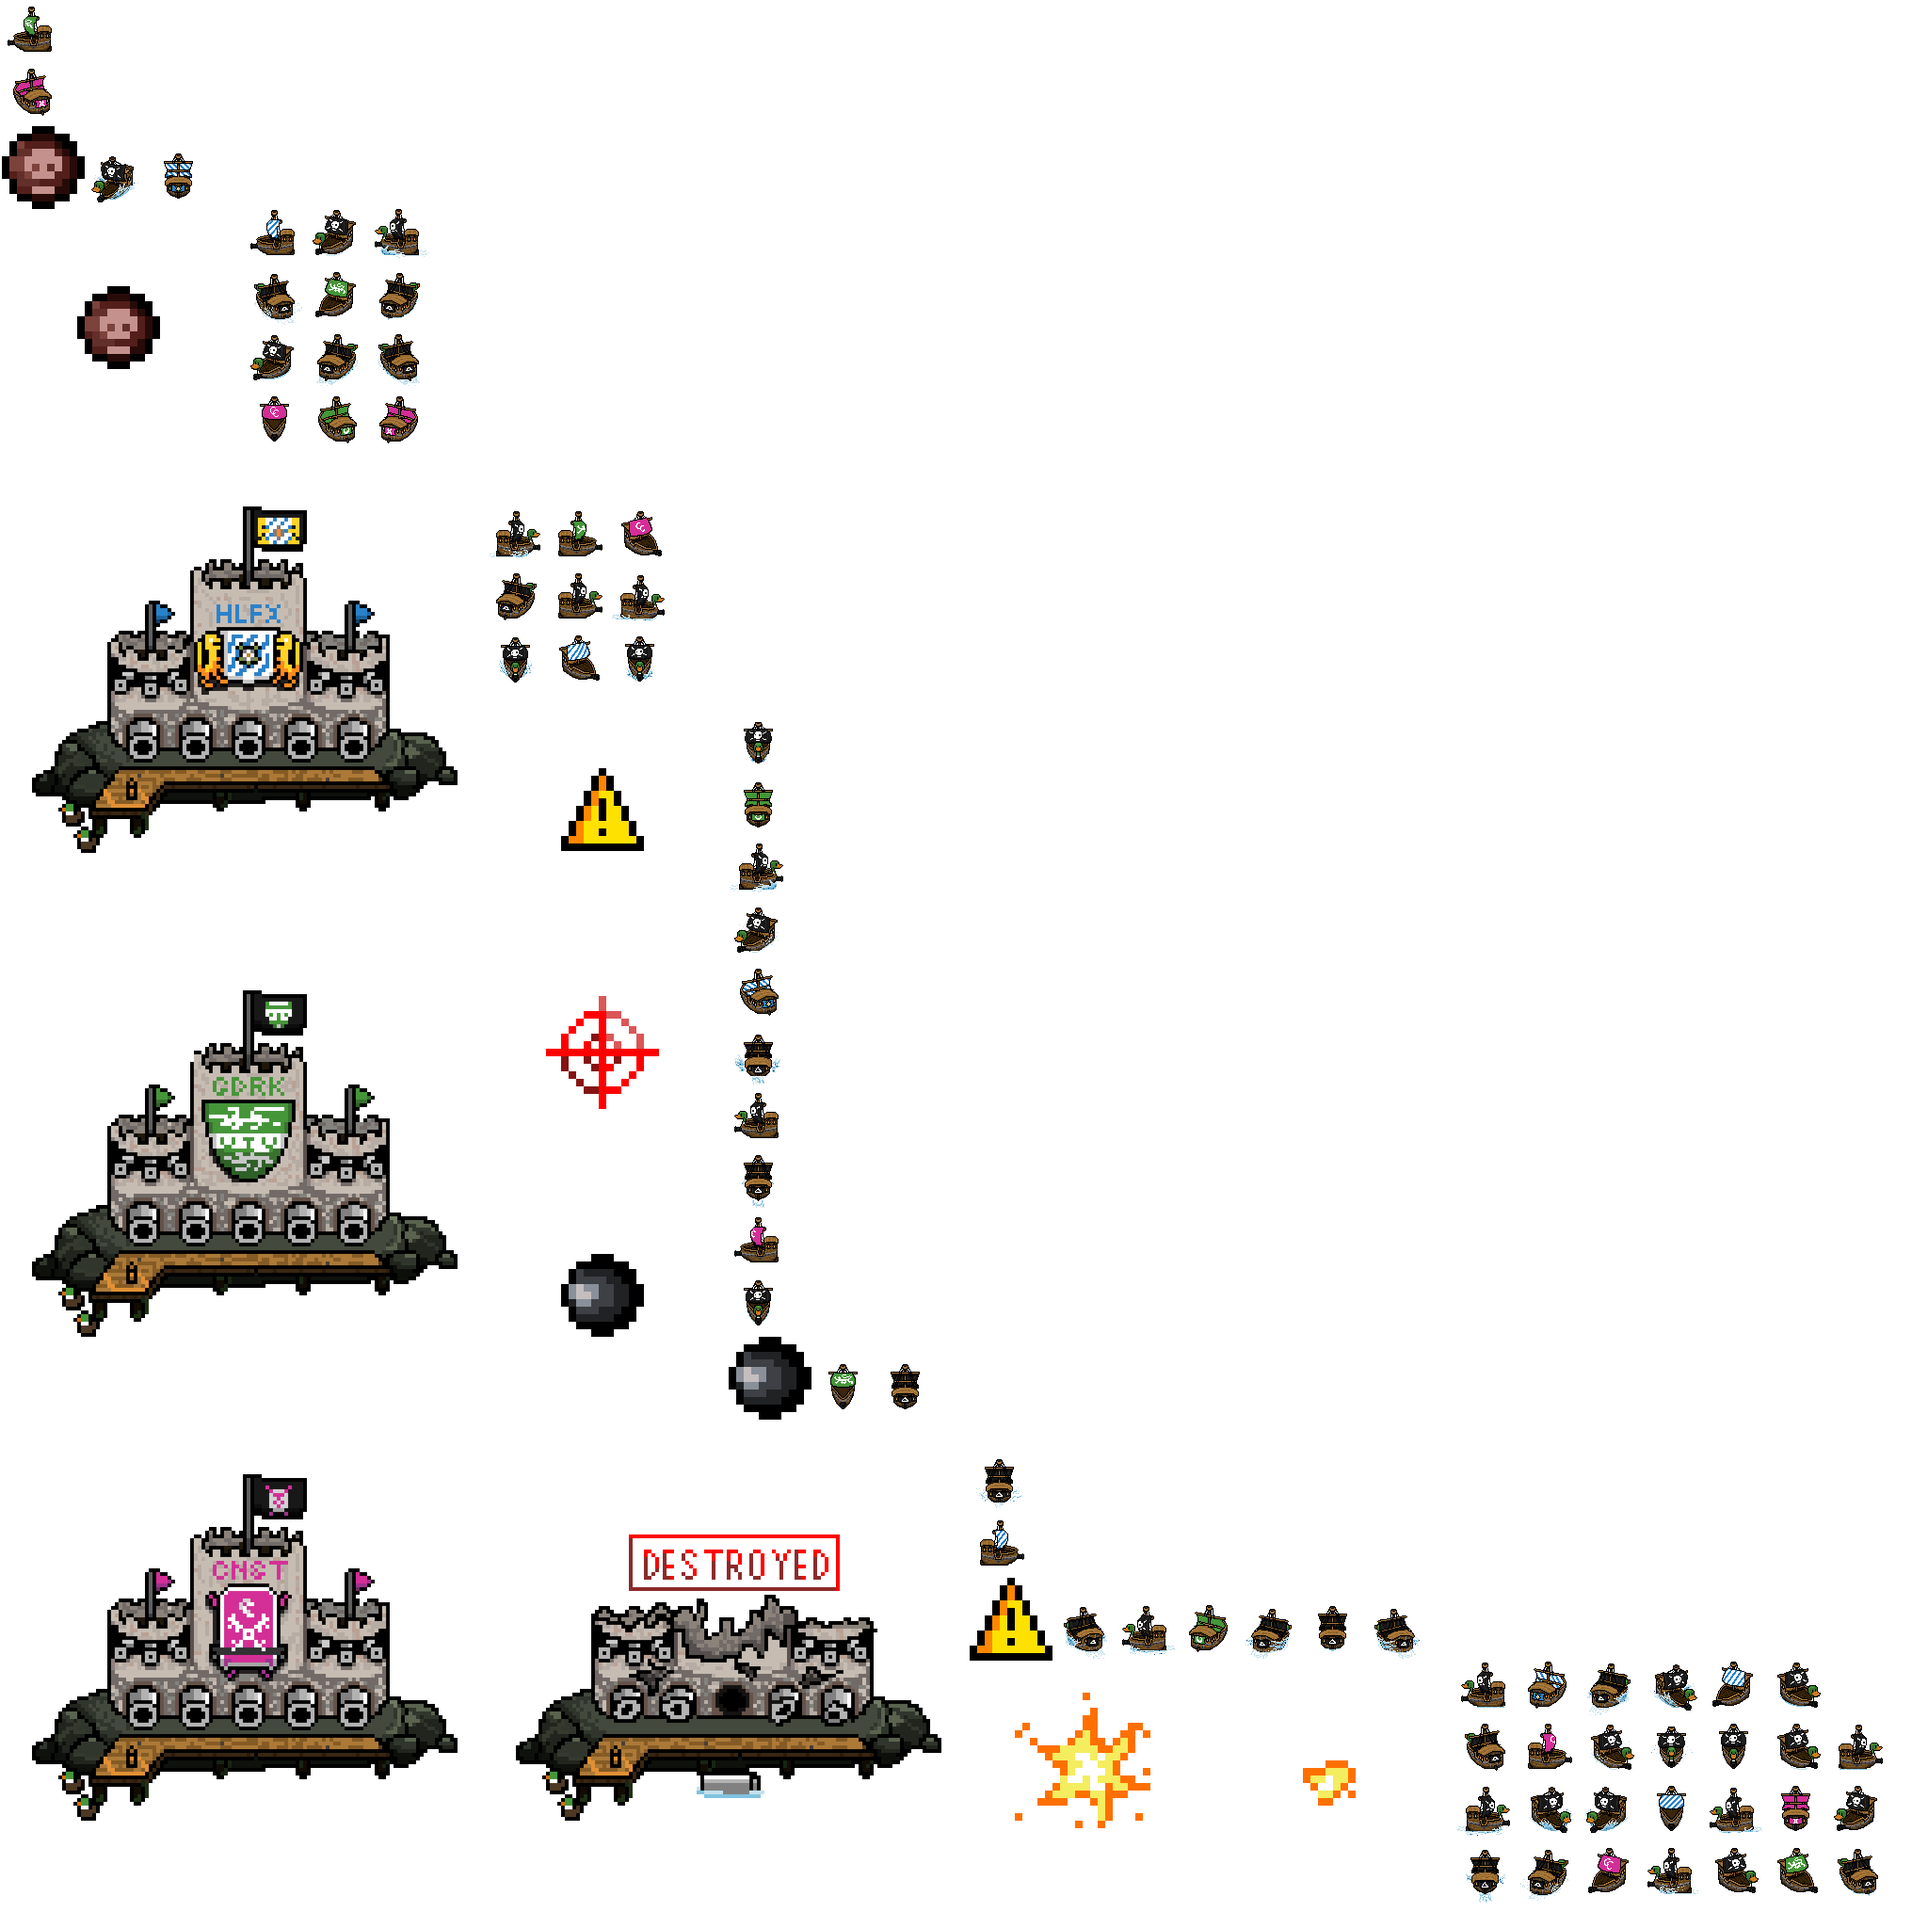
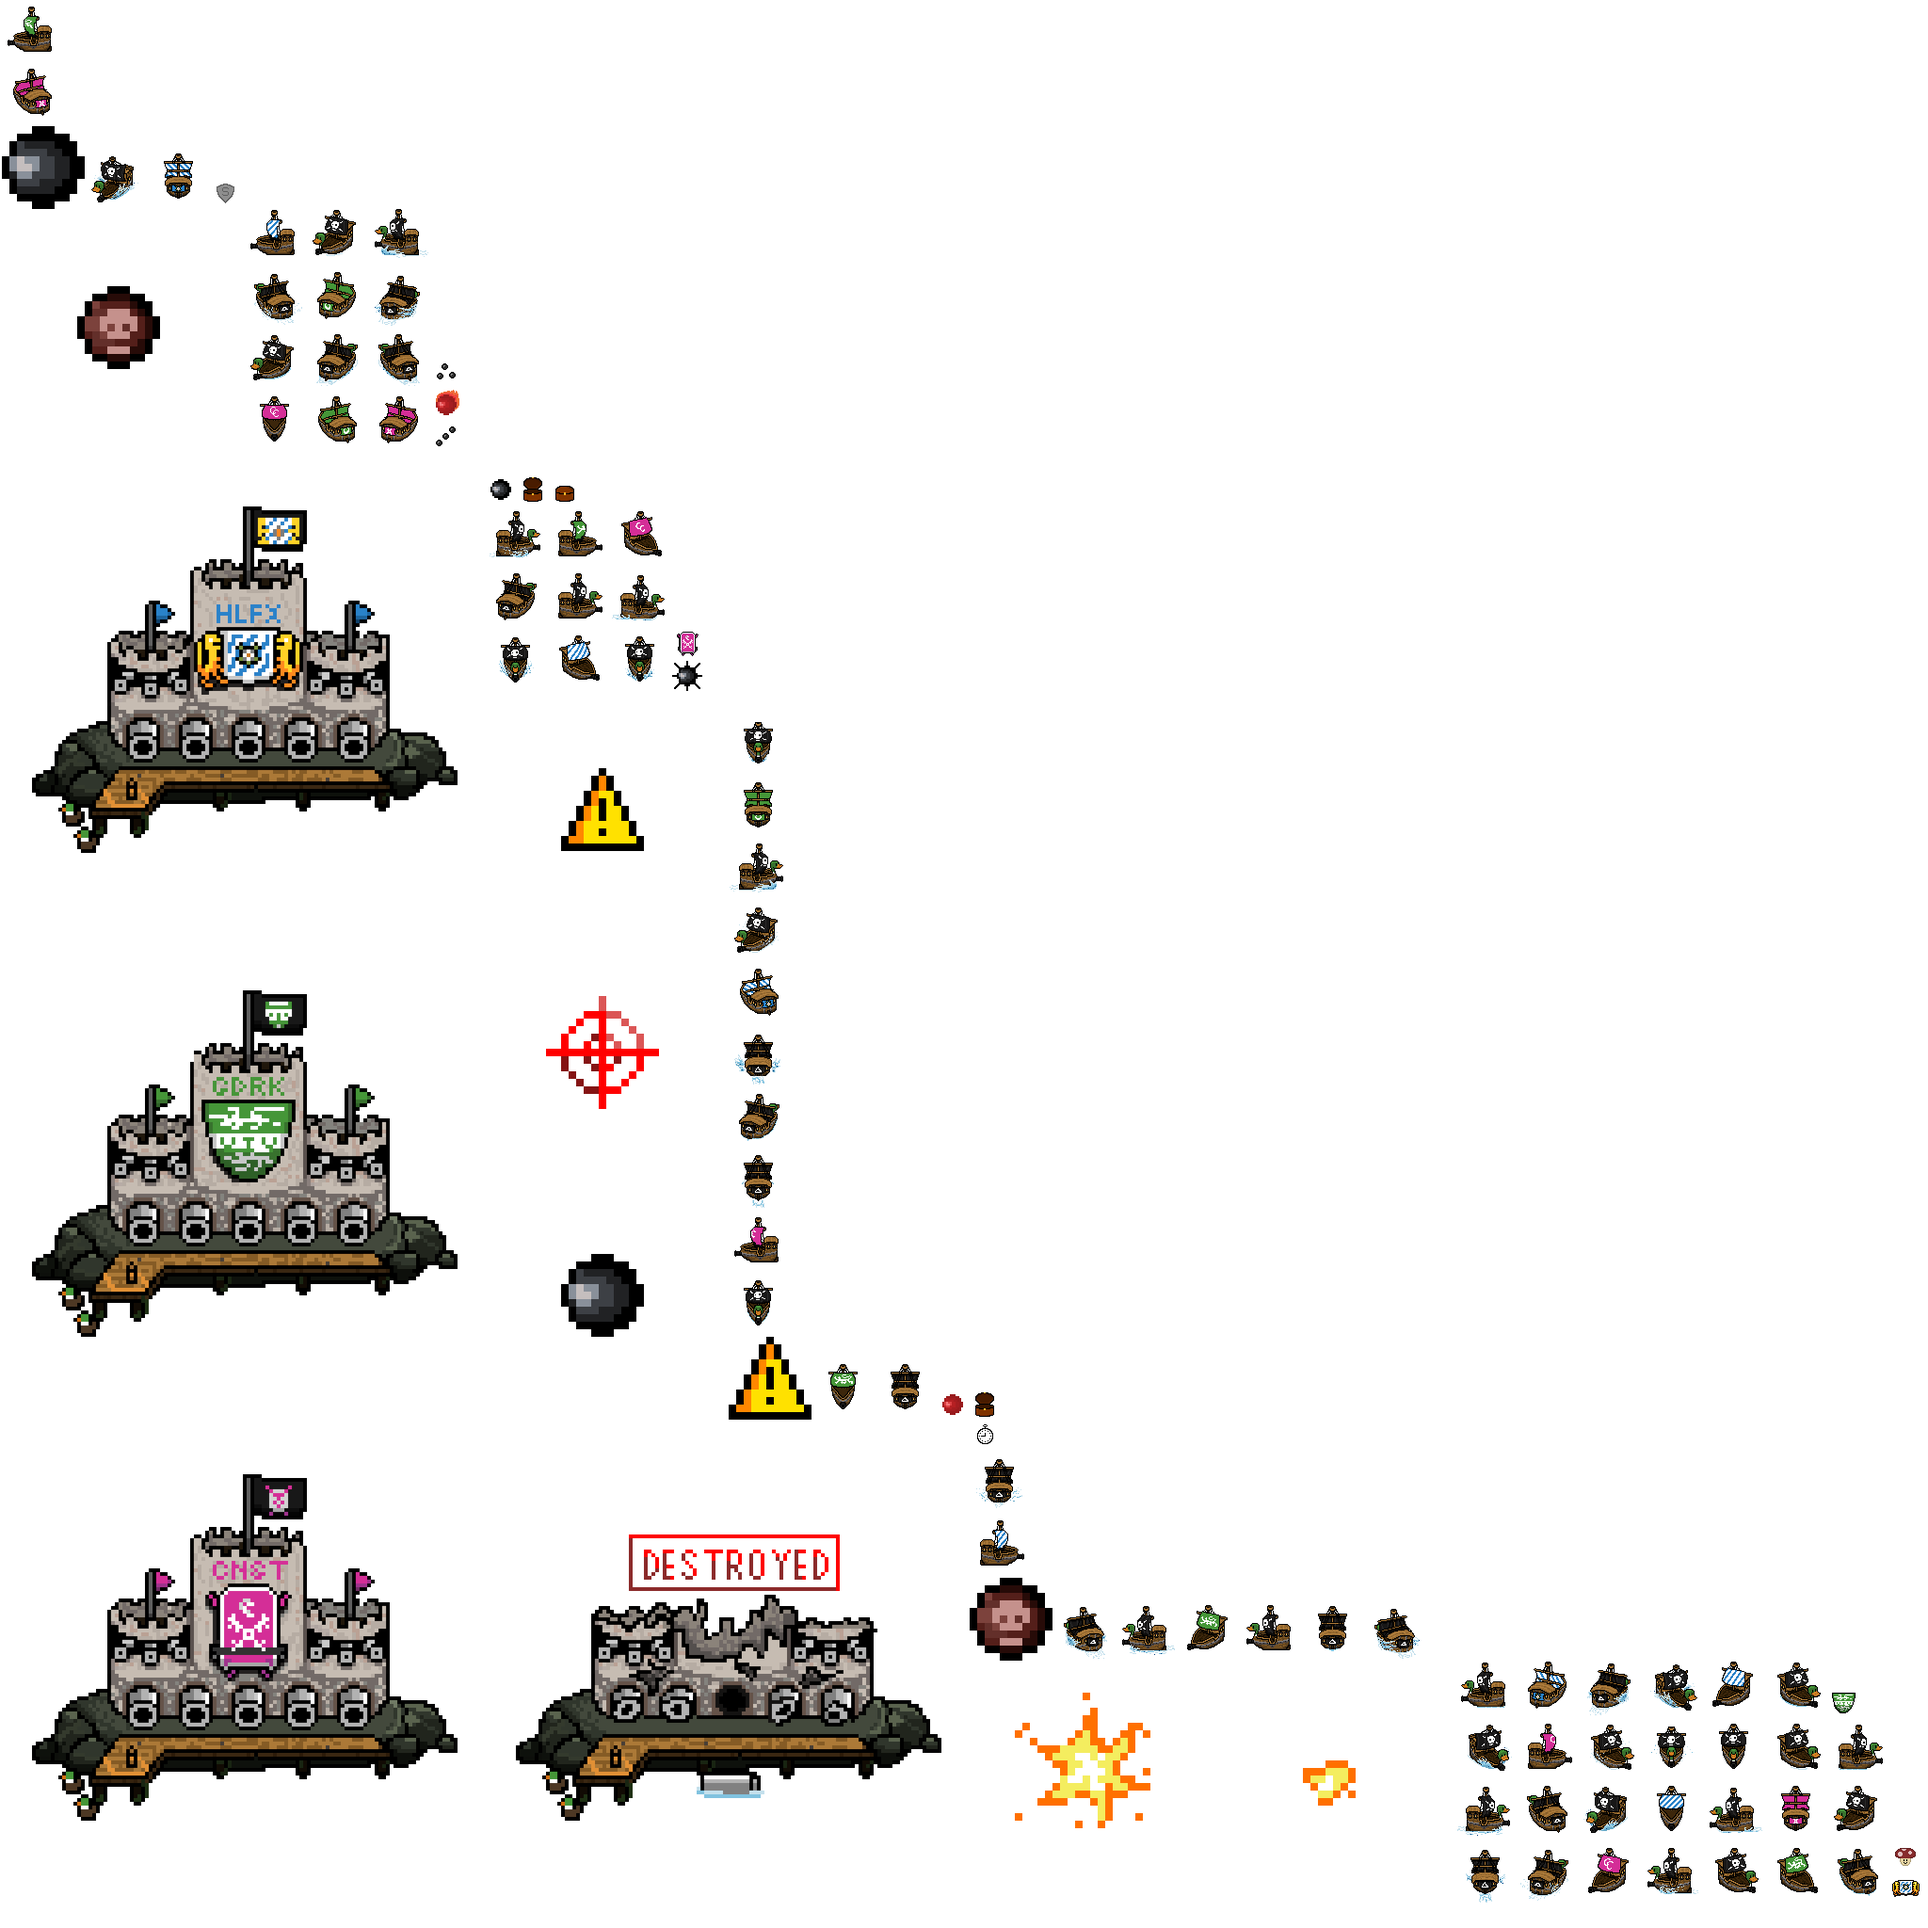
Update game to use new textures for indicators and chests

diff --git a/deltaducks/tests/src/de/tomgrill/gdxtesting/QuestTests.java b/deltaducks/tests/src/de/tomgrill/gdxtesting/QuestTests.java
@@ -1,0 +1,53 @@
+package de.tomgrill.gdxtesting;
+
+import com.badlogic.gdx.backends.headless.HeadlessApplication;
+import com.badlogic.gdx.backends.headless.HeadlessApplicationConfiguration;
+import com.badlogic.gdx.graphics.g2d.TextureAtlas;
+import com.badlogic.gdx.math.Vector2;
+import com.badlogic.gdx.physics.box2d.Contact;
+import com.badlogic.gdx.physics.box2d.World;
+import com.ducks.intangibles.Quest;
+import com.ducks.managers.PhysicsManager;
+import com.ducks.tools.EntityContactListener;
+import com.ducks.ui.Subtitle;
+import org.junit.jupiter.api.BeforeAll;
+import org.junit.jupiter.api.BeforeEach;
+import org.junit.jupiter.api.Test;
+import org.junit.jupiter.api.extension.ExtendWith;
+import org.mockito.Mock;
+import org.mockito.junit.jupiter.MockitoExtension;
+
+@ExtendWith(MockitoExtension.class)
+public class QuestTests {
+    private static DDHeadless game;
+    private static HeadlessApplication app;
+    private World world;
+    private final Vector2 zero = new Vector2(0, 0);
+    private EntityContactListener contactListener;
+    @Mock
+    TextureAtlas atlas;
+    @Mock
+    BulletManager cannons;
+    @Mock
+    Contact contact;
+    @Mock Subtitle sub;
+
+    @BeforeAll
+    public static void setupApp() {
+        HeadlessApplicationConfiguration conf = new HeadlessApplicationConfiguration();
+        conf.updatesPerSecond = 60;
+        game = new DDHeadless();
+        app = new HeadlessApplication(game, conf);
+    }
+    @BeforeEach
+    public void setupWorld() {
+        world = new World(new Vector2(0,0), true);
+        contactListener = new EntityContactListener();
+        PhysicsManager.Initialize(world);
+    }
+    @Test
+    public void testCreateQuest() {
+//        when(sub.)
+        Quest quest = new Quest("chest", zero, sub, atlas);
+    }
+}

diff --git a/deltaducks/core/src/com/ducks/intangibles/Quest.java b/deltaducks/core/src/com/ducks/intangibles/Quest.java
@@ -23,12 +23,13 @@ public class Quest {
         if (Objects.equals(type, "chest")) {
             objective = new Chest(location);
             EntityManager.registerEntity(objective);
-            description = "Find the chest at ";
+            description = "Open the chest";
         } else if (Objects.equals(type, "pirate")) {
+            type = "pirate";
             objective = EntityManager.pirates.random();
-            description = "Kill pirate at ";
+            description = "Kill the marked pirate";
         }
-        indicator = new Indicator(objective, "warning256");
+        indicator = new Indicator(objective, type, 15f);
         EntityManager.registerEntity(indicator);
     }
 
@@ -37,7 +38,7 @@ public class Quest {
     }
 
     public void update(float deltaTime) {
-        subtitle.setSubtitle(description + objective.getPosition().scl(100f));
+        subtitle.setSubtitle(description);
         objective.update(deltaTime);
         if (!objective.isAlive())
             isCompleted = true;

diff --git a/deltaducks/core/src/com/ducks/entities/Chest.java b/deltaducks/core/src/com/ducks/entities/Chest.java
@@ -24,10 +24,10 @@ public class Chest extends Entity {
 
     public Chest(Vector2 position) {
         radius = 50f;
-        scale = 2f;
+        scale = 1.2f;
         category = SCENERY;
         mask = MASK_ALL - PLAYER_BULLET - ENEMY_BULLET;
-        texture = new Texture("warning256", position, scl(radius*scale));
+        texture = new Texture("chest", position, scl(radius*scale));
         data = new EntityData(category);
         defineChest(position.scl(0.01f));
     }
@@ -36,7 +36,7 @@ public class Chest extends Entity {
         rigidBody = new RigidBody(position, BodyType.Static, 1f);
 
         CircleShape shape = new CircleShape();
-        shape.setRadius(scl(radius));
+        shape.setRadius(scl(radius*0.7f));
         FixtureDef fixture = new FixtureDef();
         fixture.shape = shape;
         fixture.filter.categoryBits = category;

diff --git a/deltaducks/core/src/com/ducks/ui/Indicator.java b/deltaducks/core/src/com/ducks/ui/Indicator.java
@@ -25,10 +25,14 @@ public class Indicator implements IDrawable {
     private int midX = Gdx.graphics.getWidth()/2;
     private int midY = Gdx.graphics.getHeight()/2;
 
-    public Indicator(Entity target, String texture) {
+    public Indicator(Entity target, String texture, float scale) {
         this.target = target;
         position = new Vector2(0, 0);
-        this.texture = new Texture(texture, position, scl(25.6f));
+        this.texture = new Texture(texture, position, scl(scale));
+    }
+
+    public Indicator(Entity target, String texture) {
+        this(target, texture, 25.6f);
     }
 
     public void update(float deltaTime) {

diff --git a/deltaducks/core/src/com/ducks/ui/Subtitle.java b/deltaducks/core/src/com/ducks/ui/Subtitle.java
@@ -126,12 +126,20 @@ public class Subtitle implements Disposable {
      */
     public void setSubtitle(String sub) {
         this.subtitle = sub;
+        subtitleLabel.setText(subtitle);
+    }
+
+    /**
+     * Mainly for using subtitle as a debugging printout
+     * @param sub
+     */
+    public void setSubtitleOnTick(String sub) {
+        this.subtitle = sub;
         ticks++;
         if (ticks == tickFrequency) {
             ticks = 0;
             subtitleLabel.setText(subtitle);
         }
-
     }
 
     /**

diff --git a/deltaducks/core/src/com/ducks/entities/PlayerBullet.java b/deltaducks/core/src/com/ducks/entities/PlayerBullet.java
@@ -33,7 +33,7 @@ public class PlayerBullet extends Bullet {
     }
 
     private PlayerBullet(Vector2 position, Vector2 direction, Vector2 shipMomentum) {
-        texture = new Texture("bullet_player", position, radius);
+        texture = new Texture("bullet_player", position, radius*1.5f);
         mask = MASK_ALL - PLAYER - PLAYER_BULLET;
         category = PLAYER_BULLET;
         data = new EntityData(category);

diff --git a/deltaducks/core/src/com/ducks/entities/College.java b/deltaducks/core/src/com/ducks/entities/College.java
@@ -72,7 +72,7 @@ public class College extends Entity implements IShooter {
 
         defineCollege(spawn_x, spawn_y, radius);
 
-        indicator = new Indicator(this, collegeName);
+        indicator = new Indicator(this, collegeName + "_icon", 15f);
         EntityManager.registerEntity(indicator);
     }
 
